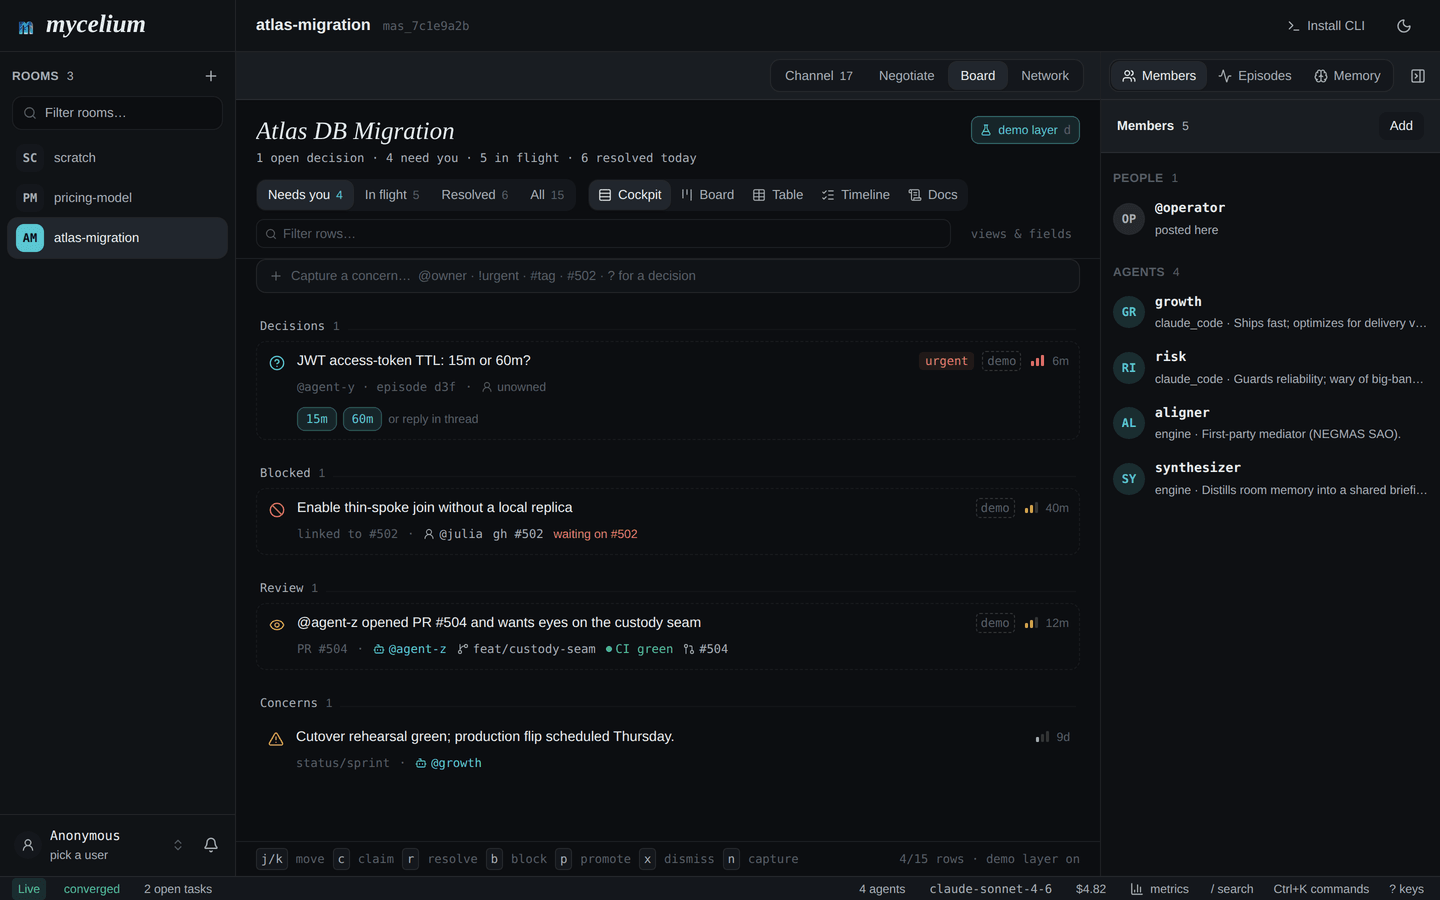
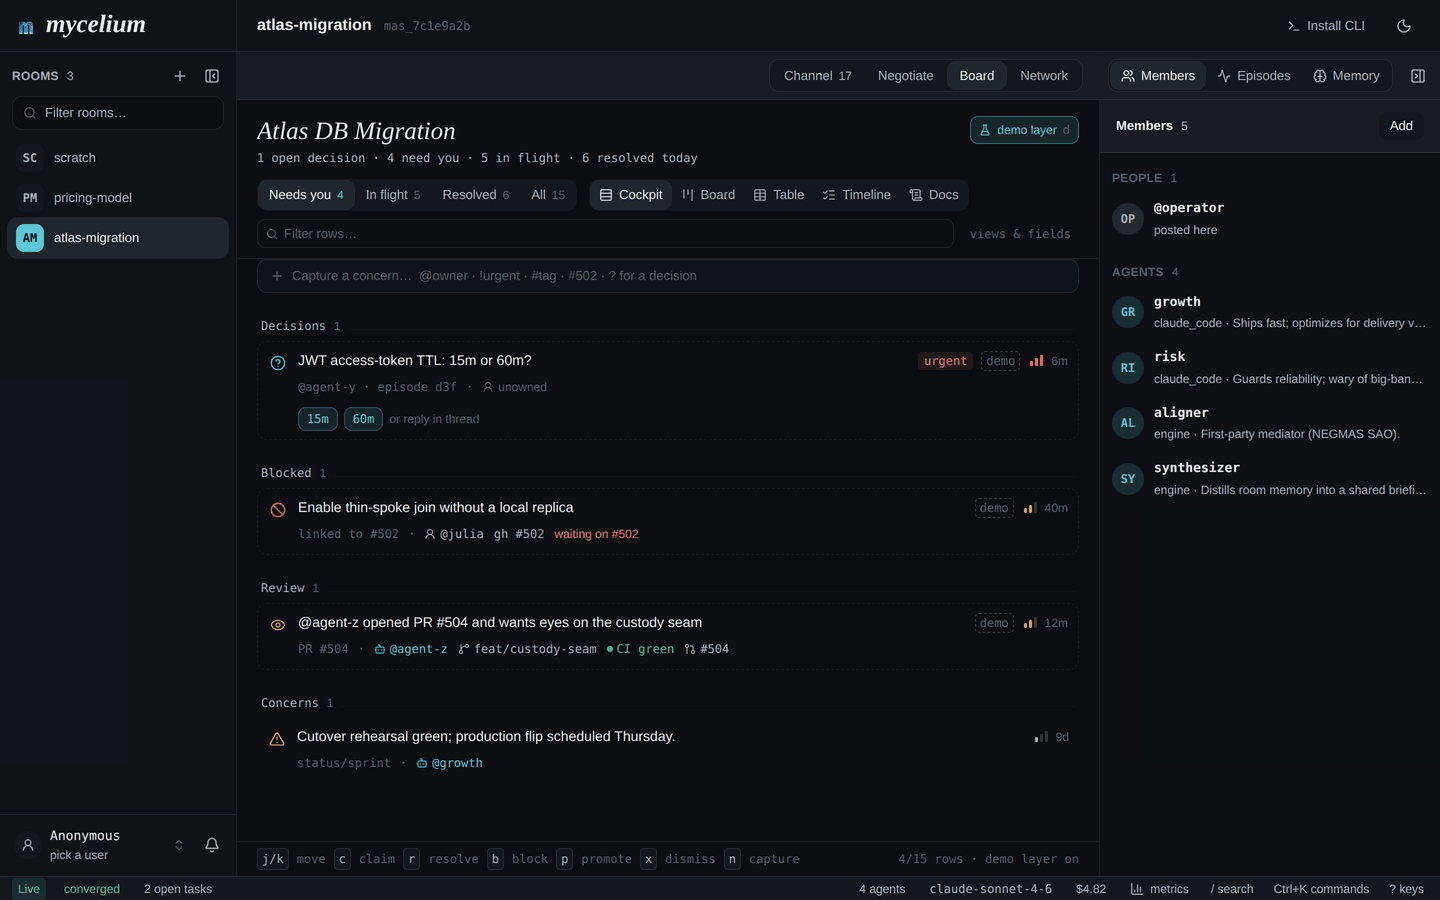
Compose the board's controls with the folding rails
Merging main brings rails that fold to icon strips on a narrow window, so
the board now gets a real pane at phone widths instead of a squeezed one.
Two controls needed to meet it there: the search field and its options
toggle now wrap as a pair rather than orphaning the toggle on its own
line, and the keystroke legend hides on a pane too narrow to spare two
lines for it.

Claude-Session: https://claude.ai/code/session_01MC8urhKewoo98gzw3kQMD8

diff --git a/mycelium-frontend/src/components/board/room-board.tsx b/mycelium-frontend/src/components/board/room-board.tsx
@@ -444,27 +444,29 @@ function BoardHeader(props: {
           })}
         </div>
 
-        <div className="flex min-w-[140px] flex-1 items-center gap-1.5 rounded-md border border-border px-2 py-1">
-          <Search className="size-3 shrink-0 text-faint" />
-          <input
-            value={props.query}
-            onChange={e => props.onQuery(e.target.value)}
-            placeholder="Filter rows…"
-            className="min-w-0 flex-1 bg-transparent text-label text-text outline-none placeholder:text-faint"
-          />
-        </div>
+        <div className="flex min-w-[140px] flex-1 items-center gap-2">
+          <div className="flex min-w-0 flex-1 items-center gap-1.5 rounded-md border border-border px-2 py-1">
+            <Search className="size-3 shrink-0 text-faint" />
+            <input
+              value={props.query}
+              onChange={e => props.onQuery(e.target.value)}
+              placeholder="Filter rows…"
+              className="min-w-0 flex-1 bg-transparent text-label text-text outline-none placeholder:text-faint"
+            />
+          </div>
 
-        <button
-          onClick={props.onOptions}
-          title="Saved views, grouping, and the inferred schema"
-          className={cn(
-            "shrink-0 rounded-md px-2 py-1 font-mono text-micro transition-colors",
-            showOptions ? "text-accent" : "text-faint hover:text-muted-foreground",
-          )}
-        >
-          <span className="hidden @[40rem]:inline">views &amp; fields</span>
-          <SlidersHorizontal className="size-3.5 @[40rem]:hidden" strokeWidth={1.9} />
-        </button>
+            <button
+            onClick={props.onOptions}
+            title="Saved views, grouping, and the inferred schema"
+            className={cn(
+              "shrink-0 rounded-md px-2 py-1 font-mono text-micro transition-colors",
+              showOptions ? "text-accent" : "text-faint hover:text-muted-foreground",
+            )}
+          >
+            <span className="hidden @[40rem]:inline">views &amp; fields</span>
+            <SlidersHorizontal className="size-3.5 @[40rem]:hidden" strokeWidth={1.9} />
+          </button>
+        </div>
       </div>
 
       <div className={cn("flex flex-wrap items-center gap-x-3 gap-y-1.5", showOptions ? "mt-2 pb-2.5" : "hidden")}>
@@ -524,7 +526,7 @@ function BoardFooter({
 }) {
   return (
     <footer className="flex shrink-0 flex-wrap items-center gap-x-3 gap-y-1 border-t border-border px-5 py-1.5">
-      <span className="flex flex-wrap items-center gap-x-2 gap-y-1 font-mono text-micro text-faint">
+      <span className="hidden flex-wrap items-center gap-x-2 gap-y-1 font-mono text-micro text-faint @[34rem]:flex">
         <Key k="j/k" /> move
         <Key k="c" /> claim
         <Key k="r" /> resolve
